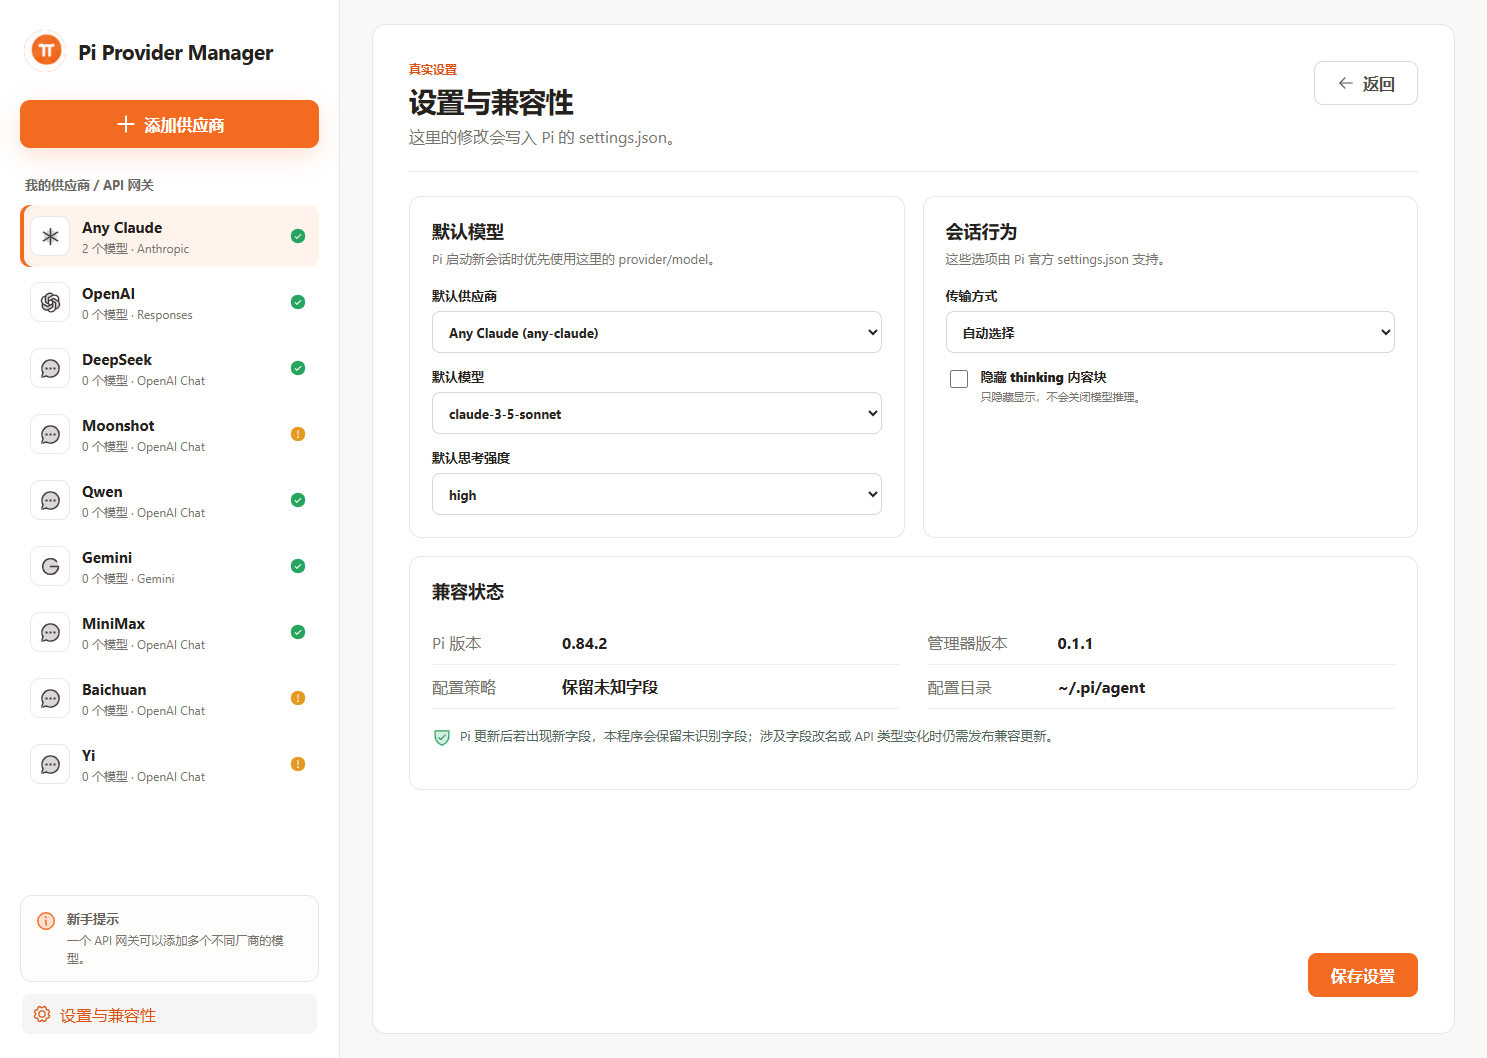
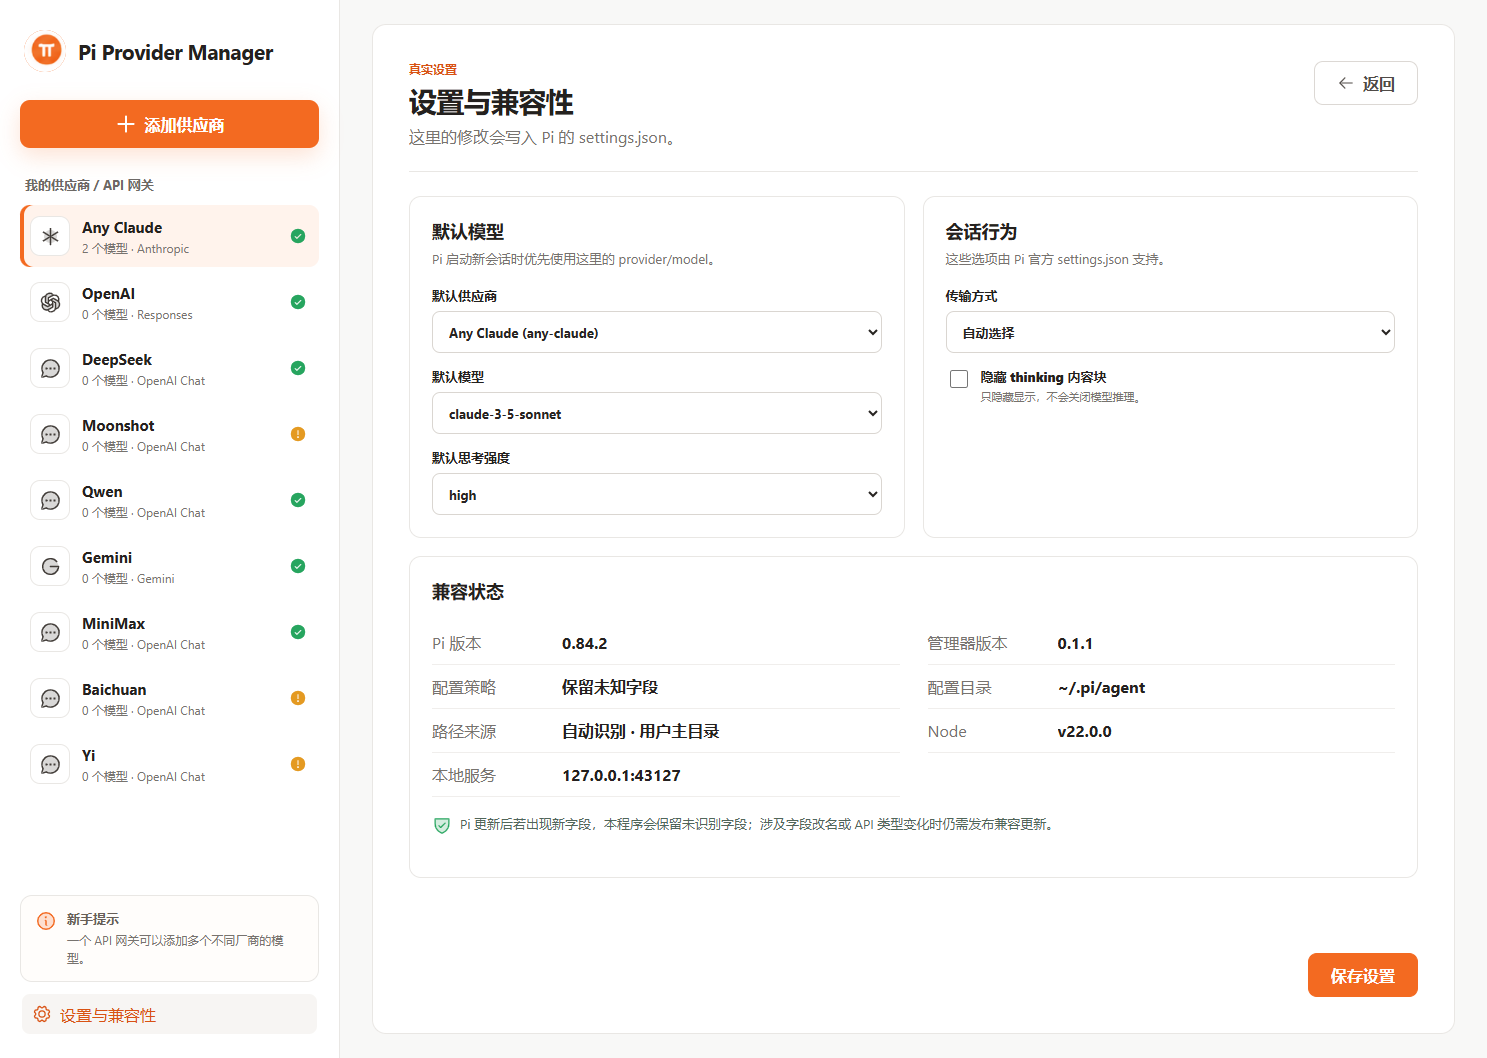
Auto-detect runtime paths and isolate service origin

Changed region(s): [[0.2784, 0.6862, 0.7424, 0.7798], [0.5878, 0.7486, 0.7115, 0.7798], [0.5259, 0.7486, 0.5568, 0.7798]]

diff --git a/src/App.jsx b/src/App.jsx
@@ -125,7 +125,7 @@ function blankForm() {
 
 const DEMO_STATE = {
   agentDir: "~/.pi/agent",
-  compatibility: { appVersion: "0.1.1", piVersion: "0.84.2", configMode: "preserve-unknown-fields" },
+  compatibility: { appVersion: "0.1.1", piVersion: "0.84.2", configMode: "preserve-unknown-fields", configDirSource: "default-home", nodeVersion: "v22.0.0", serviceHost: "127.0.0.1", servicePort: 43127 },
   authProviders: ["any-claude", "openai", "deepseek", "moonshot", "qwen", "gemini", "minimax"],
   settings: { defaultProvider: "any-claude", defaultModel: "claude-3-5-sonnet", defaultThinkingLevel: "high" },
   providers: [
@@ -491,7 +491,7 @@ function SettingsScreen({ state, saving, error, onSave, onBack }) {
           <label className="setting-toggle"><input type="checkbox" checked={draft.hideThinkingBlock} onChange={(event) => setDraft((current) => ({ ...current, hideThinkingBlock: event.target.checked }))} /><span><strong>隐藏 thinking 内容块</strong><small>只隐藏显示，不会关闭模型推理。</small></span></label>
         </section>
         <section className="settings-card compatibility-card">
-          <h2>兼容状态</h2><dl><div><dt>Pi 版本</dt><dd>{state.compatibility?.piVersion || "unknown"}</dd></div><div><dt>管理器版本</dt><dd>{state.compatibility?.appVersion || "0.1.1"}</dd></div><div><dt>配置策略</dt><dd>保留未知字段</dd></div><div><dt>配置目录</dt><dd title={state.agentDir}>{state.agentDir}</dd></div></dl>
+          <h2>兼容状态</h2><dl><div><dt>Pi 版本</dt><dd>{state.compatibility?.piVersion || "unknown"}</dd></div><div><dt>管理器版本</dt><dd>{state.compatibility?.appVersion || "0.1.1"}</dd></div><div><dt>配置策略</dt><dd>保留未知字段</dd></div><div><dt>配置目录</dt><dd title={state.agentDir}>{state.agentDir}</dd></div><div><dt>路径来源</dt><dd>{state.compatibility?.configDirSource === "PI_CODING_AGENT_DIR" ? "PI_CODING_AGENT_DIR" : "自动识别 · 用户主目录"}</dd></div><div><dt>Node</dt><dd>{state.compatibility?.nodeVersion || "unknown"}</dd></div><div><dt>本地服务</dt><dd>{state.compatibility?.serviceHost || "127.0.0.1"}:{state.compatibility?.servicePort || 43127}</dd></div></dl>
           <p className="compat-note"><ShieldCheck size={20} weight="duotone" />Pi 更新后若出现新字段，本程序会保留未识别字段；涉及字段改名或 API 类型变化时仍需发布兼容更新。</p>
         </section>
       </div>

diff --git a/README.md b/README.md
@@ -47,9 +47,24 @@ install -m 700 bin/pi-provider-manager-ui ~/.pi/agent/bin/pi-provider-manager-ui
 ~/.pi/agent/bin/pi-provider-manager-ui
 ```
 
-The launcher starts the local service when needed and opens `http://127.0.0.1:4173/` in the Windows default browser.
+The launcher reuses an existing manager instance or selects a free port from `43127-43146`, then opens it in the Windows default browser. It verifies `/api/state` before reuse, so another app on the same port is never mistaken for Pi Provider Manager.
 
 If the repository is cloned elsewhere, set `PI_PROVIDER_MANAGER_PROJECT_DIR` to that absolute path before running the launcher.
+
+### Runtime discovery and overrides
+
+| Variable | Auto-detected default | Purpose |
+|---|---|---|
+| `PI_CODING_AGENT_DIR` | `~/.pi/agent` | Pi config directory used for auth, models, and settings |
+| `PI_PROVIDER_MANAGER_PROJECT_DIR` | current matching repo, then `~/pi-provider-manager-ui` | Project/build location |
+| `PI_PROVIDER_MANAGER_PORT` | auto-select from `43127-43146` | Strict local loopback port override |
+| `PI_PROVIDER_MANAGER_NODE` | current `node` executable | Node binary used by the detached WSL process |
+| `PI_PROVIDER_MANAGER_OPEN_BROWSER` | `1` | Set to `0` to start without opening a browser |
+| `WSL_DISTRO_NAME` | supplied automatically by WSL | Distribution used by the detached Windows launcher |
+
+The service host intentionally stays fixed at `127.0.0.1`; it is not configurable to a public/LAN address.
+
+The dedicated port range also avoids stale Service Workers and cached apps commonly left on Vite's default `4173` origin.
 
 ## Security boundary
 

diff --git a/README.zh-CN.md b/README.zh-CN.md
@@ -39,9 +39,24 @@ install -m 700 bin/pi-provider-manager-ui ~/.pi/agent/bin/pi-provider-manager-ui
 ~/.pi/agent/bin/pi-provider-manager-ui
 ```
 
-启动器会自动运行本地服务，并用 Windows 默认浏览器打开 `http://127.0.0.1:4173/`。
+启动器会复用已运行的管理器，或在 `43127-43146` 中自动选择空闲端口，再用 Windows 默认浏览器打开。复用前会检查 `/api/state` 身份，不会把同端口的其他应用误认成本项目。
 
 如果仓库不在 `~/pi-provider-manager-ui`，请先把 `PI_PROVIDER_MANAGER_PROJECT_DIR` 设置为仓库绝对路径。
+
+### 自动识别与环境变量覆盖
+
+| 环境变量 | 自动默认值 | 用途 |
+|---|---|---|
+| `PI_CODING_AGENT_DIR` | `~/.pi/agent` | Pi 的 auth/models/settings 配置目录 |
+| `PI_PROVIDER_MANAGER_PROJECT_DIR` | 当前匹配仓库，其次 `~/pi-provider-manager-ui` | 项目与构建产物位置 |
+| `PI_PROVIDER_MANAGER_PORT` | 从 `43127-43146` 自动选择 | 严格指定本地服务端口 |
+| `PI_PROVIDER_MANAGER_NODE` | 当前 `node` 可执行文件 | 隐藏 WSL 服务使用的 Node 路径 |
+| `PI_PROVIDER_MANAGER_OPEN_BROWSER` | `1` | 设为 `0` 时只启动服务，不自动打开浏览器 |
+| `WSL_DISTRO_NAME` | WSL 自动提供 | Windows 隐藏启动时使用的发行版 |
+
+监听地址固定为 `127.0.0.1`，不会自动开放到局域网或公网。
+
+专用端口段还可以避开 Vite 常用的 `4173` origin 上残留的旧 Service Worker 和站点缓存。
 
 ## 安全边界
 

diff --git a/CHANGELOG.md b/CHANGELOG.md
@@ -8,6 +8,8 @@
 - Added warnings for model IDs that may incorrectly encode thinking levels.
 - Preserved unknown provider, model, compatibility, and settings fields across edits.
 - Added installed Pi version detection and compatibility policy.
+- Added automatic config/project/Node/WSL discovery with explicit environment-variable overrides and a loopback-only host boundary.
+- Replaced the shared Vite port `4173` with identity-checked automatic selection from `43127-43146`, preventing stale Service Workers or unrelated apps from opening first.
 - Added open-source readiness documentation and CI.
 
 ## 0.1.0 - 2026-08-17

diff --git a/docs/compatibility.md b/docs/compatibility.md
@@ -18,6 +18,8 @@ To reduce breakage:
 4. Unknown model-level compatibility properties are preserved except fields the user explicitly changes.
 5. Files are parsed and validated before replacement.
 6. Multi-file provider updates roll back if any write fails.
+7. The config directory follows Pi's own precedence: `PI_CODING_AGENT_DIR`, then `~/.pi/agent`.
+8. Project path, port, Node binary, browser opening, and WSL distribution are discovered or explicitly overridable; the network host remains loopback-only.
 
 ## Why updates may still be required
 

diff --git a/design-qa.md b/design-qa.md
@@ -62,6 +62,7 @@
 - Manager version reported as `0.1.1`.
 - Real state shows providers `any-codex` and `sota`, default `sota/claude-opus-5:high`, with no key field in API responses.
 - Single-process production launcher remains available after the launching shell exits.
+- Launcher identity-checks `/api/state`, automatically selects `43127-43146`, and does not reuse unrelated apps or stale Service Worker origins on Vite's common `4173` port.
 
 **Implementation Checklist**
 
